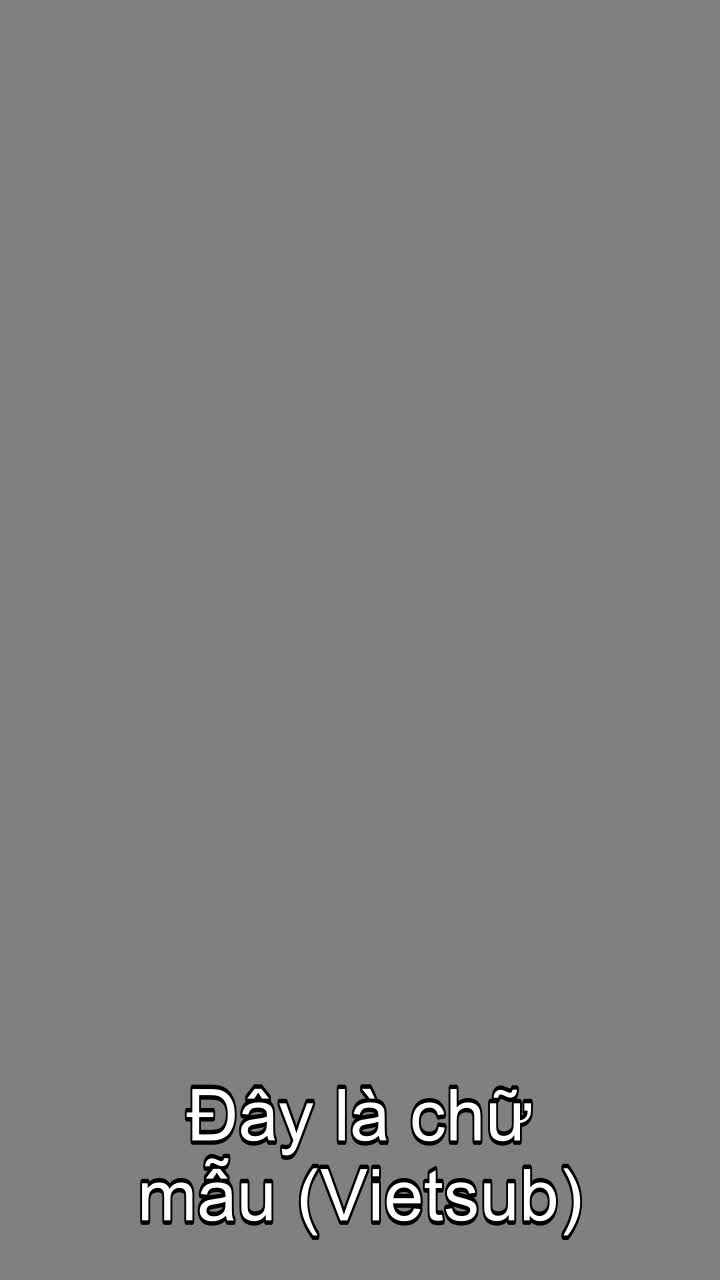
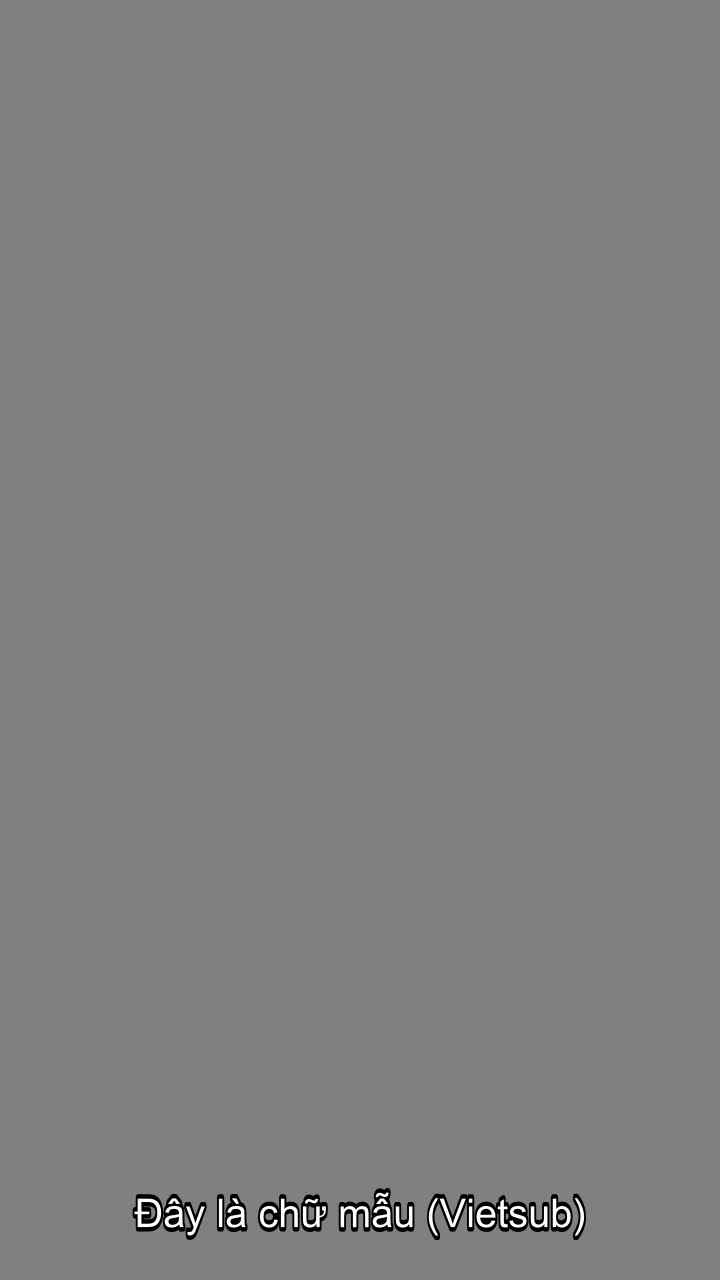
as code

Changed region(s): [[0.1833, 0.8438, 0.825, 0.9688]]

diff --git a/reup_processor.py b/reup_processor.py
@@ -15,6 +15,14 @@ current_dir = os.path.dirname(os.path.abspath(__file__))
 os.environ["PATH"] = current_dir + os.pathsep + os.environ.get("PATH", "")
 
 def download_video(url, output_filename, callback=None):
+    # Tiền xử lý URL cho Douyin (chuyển modal_id thành dạng chuẩn)
+    import re
+    if "douyin.com" in url and "modal_id=" in url:
+        match = re.search(r"modal_id=(\d+)", url)
+        if match:
+            url = f"https://www.douyin.com/video/{match.group(1)}"
+            if callback: callback("Đã tự động sửa link Douyin sang định dạng chuẩn.")
+            
     if "tiktok.com" in url:
         if callback: callback(f"Đang tải video TikTok qua API chuyên dụng (Vượt Bot)...")
         try:
@@ -139,13 +147,13 @@ def merge_video_audio(video_path, audio_path, output_path, use_subtitles=False, 
             # Xử lý các Style phụ đề khác nhau bằng force_style
             sub_filter = f"subtitles={safe_srt_path}"
             if sub_style == "Vàng Nổi Bật":
-                sub_filter += ":force_style='Fontname=Arial,Fontsize=22,PrimaryColour=&H0000FFFF,Outline=2'"
+                sub_filter += ":force_style='Fontname=Arial,Fontsize=12,PrimaryColour=&H0000FFFF,Outline=2'"
             elif sub_style == "Trắng To Rõ":
-                sub_filter += ":force_style='Fontname=Arial,Fontsize=26,PrimaryColour=&H00FFFFFF,Outline=3'"
+                sub_filter += ":force_style='Fontname=Arial,Fontsize=14,PrimaryColour=&H00FFFFFF,Outline=3'"
             elif sub_style == "Xanh Neon":
-                sub_filter += ":force_style='Fontname=Arial,Fontsize=22,PrimaryColour=&H0000FF00,Outline=2'"
+                sub_filter += ":force_style='Fontname=Arial,Fontsize=12,PrimaryColour=&H0000FF00,Outline=2'"
             else:
-                sub_filter += ":force_style='Fontname=Arial,Fontsize=18,PrimaryColour=&H00FFFFFF,Outline=1'"
+                sub_filter += ":force_style='Fontname=Arial,Fontsize=10,PrimaryColour=&H00FFFFFF,Outline=1'"
                 
             import subprocess
             if video_path == audio_path:

diff --git a/gen_demos.py b/gen_demos.py
@@ -8,10 +8,10 @@ with open('demo.srt', 'w', encoding='utf-8') as f:
     f.write(srt_content)
 
 styles = {
-    'demos/style1.jpg': "Fontname=Arial,Fontsize=18,PrimaryColour=&H00FFFFFF,Outline=1",
-    'demos/style2.jpg': "Fontname=Arial,Fontsize=22,PrimaryColour=&H0000FFFF,Outline=2",
-    'demos/style3.jpg': "Fontname=Arial,Fontsize=26,PrimaryColour=&H00FFFFFF,Outline=3",
-    'demos/style4.jpg': "Fontname=Arial,Fontsize=22,PrimaryColour=&H0000FF00,Outline=2"
+    'demos/style1.jpg': "Fontname=Arial,Fontsize=10,PrimaryColour=&H00FFFFFF,Outline=1",
+    'demos/style2.jpg': "Fontname=Arial,Fontsize=12,PrimaryColour=&H0000FFFF,Outline=2",
+    'demos/style3.jpg': "Fontname=Arial,Fontsize=14,PrimaryColour=&H00FFFFFF,Outline=3",
+    'demos/style4.jpg': "Fontname=Arial,Fontsize=12,PrimaryColour=&H0000FF00,Outline=2"
 }
 
 os.makedirs('demos', exist_ok=True)
